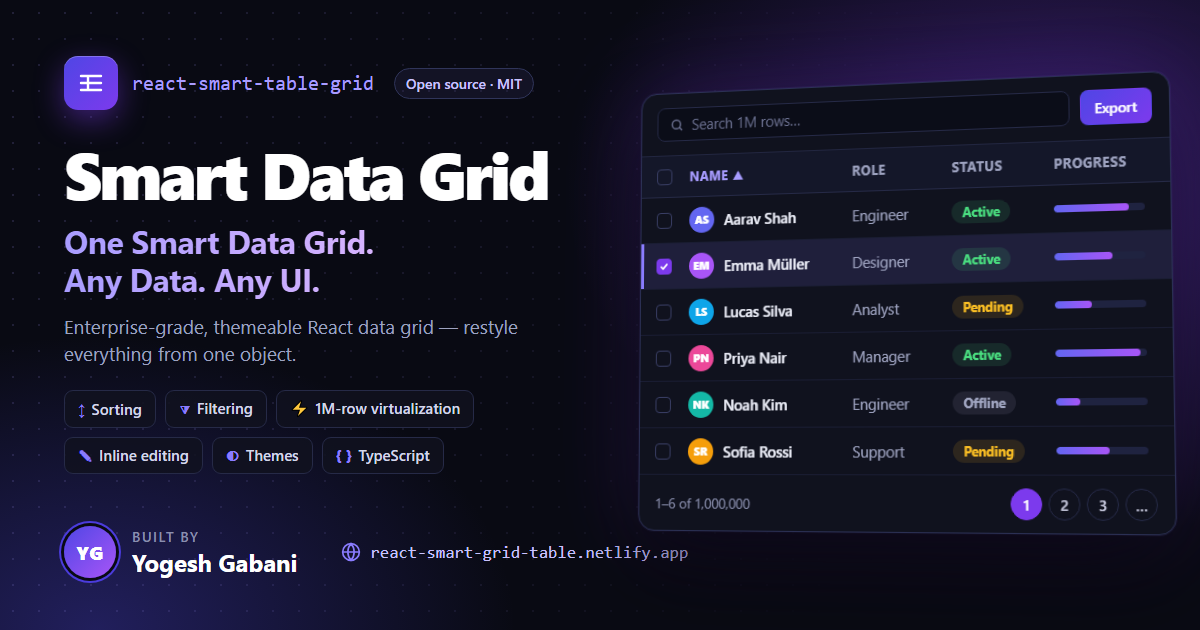
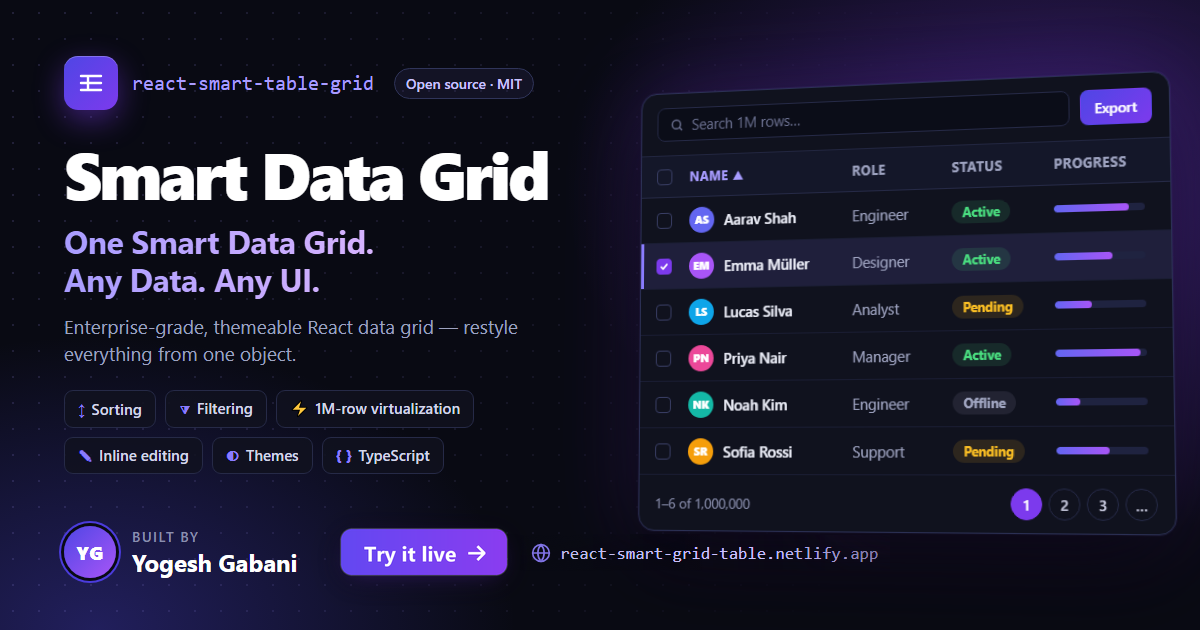
Bump version to 0.1.1 and update changelog with live playground details

Changed region(s): [[0.2775, 0.8143, 0.74, 0.9349]]

diff --git a/playground/index.html b/playground/index.html
@@ -6,7 +6,7 @@
     <title>Smart Data Grid — Live Playground by Yogesh Gabani</title>
 
     <!-- SEO -->
-    <meta name="description" content="Live playground for react-smart-table-grid by Yogesh Gabani — a themeable React data grid with sorting, filtering, virtualization, editing and a live theme builder." />
+    <meta name="description" content="Live playground for react-smart-table-grid by Yogesh Gabani — a themeable React data grid with sorting, filtering, virtualization and inline editing." />
     <meta name="keywords" content="react data grid, react table, data table, datagrid, virtualized table, react-smart-table-grid, smart data grid, typescript, nextjs, sorting, filtering, pagination, Yogesh Gabani" />
     <meta name="author" content="Yogesh Gabani" />
     <meta name="creator" content="Yogesh Gabani" />
@@ -21,11 +21,11 @@
     <meta property="og:type" content="website" />
     <meta property="og:site_name" content="Smart Data Grid by Yogesh Gabani" />
     <meta property="og:title" content="Smart Data Grid — Live Playground by Yogesh Gabani" />
-    <meta property="og:description" content="One Smart Data Grid. Any Data. Any UI. Try every feature of react-smart-table-grid — the enterprise-grade, themeable React data grid — right in your browser." />
+    <meta property="og:description" content="One Smart Data Grid. Any Data. Any UI. Try every feature of react-smart-table-grid right in your browser." />
     <meta property="og:url" content="https://react-smart-grid-table.netlify.app/" />
     <meta property="og:locale" content="en_US" />
-    <meta property="og:image" content="https://react-smart-grid-table.netlify.app/og-image.png" />
-    <meta property="og:image:secure_url" content="https://react-smart-grid-table.netlify.app/og-image.png" />
+    <meta property="og:image" content="https://react-smart-grid-table.netlify.app/og-image.png?v=2" />
+    <meta property="og:image:secure_url" content="https://react-smart-grid-table.netlify.app/og-image.png?v=2" />
     <meta property="og:image:type" content="image/png" />
     <meta property="og:image:width" content="1200" />
     <meta property="og:image:height" content="630" />
@@ -35,7 +35,7 @@
     <meta name="twitter:card" content="summary_large_image" />
     <meta name="twitter:title" content="Smart Data Grid — Live Playground by Yogesh Gabani" />
     <meta name="twitter:description" content="One Smart Data Grid. Any Data. Any UI. Try every feature of react-smart-table-grid right in your browser." />
-    <meta name="twitter:image" content="https://react-smart-grid-table.netlify.app/og-image.png" />
+    <meta name="twitter:image" content="https://react-smart-grid-table.netlify.app/og-image.png?v=2" />
     <meta name="twitter:image:alt" content="Smart Data Grid by Yogesh Gabani — a React data grid with sorting, filtering, virtualization and themes" />
 
     <!-- Structured data for search engines -->

diff --git a/CHANGELOG.md b/CHANGELOG.md
@@ -6,6 +6,14 @@ and the project adheres to [Semantic Versioning](https://semver.org/spec/v2.0.0.
 
 ## [Unreleased]
 
+## [0.1.1] — 2026-10-09
+
+Documentation-only release — no code changes.
+
+### Added
+- Live playground at **<https://react-smart-grid-table.netlify.app/>**, linked from the README banner, badges and docs
+- `homepage` in `package.json` now points to the live playground
+
 ## [0.1.0] — 2026-10-08
 
 First public release, published to npm as **`react-smart-table-grid`**.
